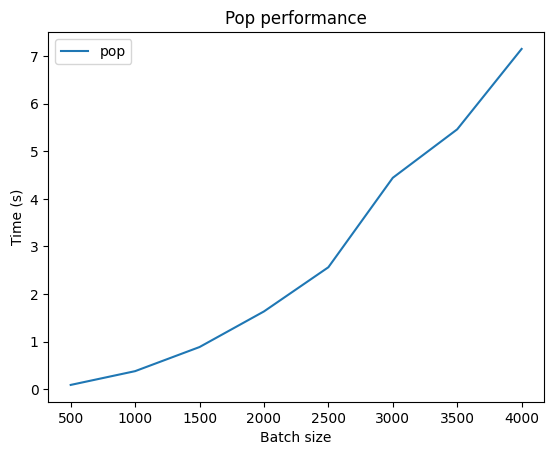
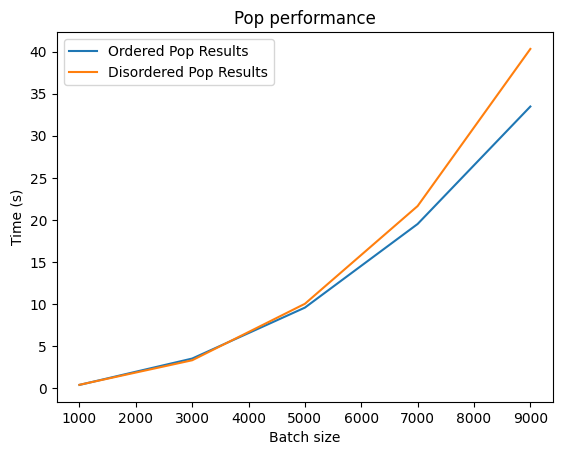
better benchmark, readme explains files

diff --git a/README.md b/README.md
@@ -23,35 +23,43 @@ Retroactive data is a little more complex to show in a figure, better see videos
 
 In this implementation, we merge the implementation of Erik Demaine at https://youtu.be/WqCWghETNDc?si=tRViaFba89L1pA3o and the implementation shown by Mitko Nikov at https://youtu.be/m2yRawZGYXk?feature=shared .
 
-Disclaimer: this was made purely to have fun and isn't complete.
+**Disclaimer**: this was made purely to have fun and isn't complete.
 
-"Queue" is a Fully retroactive data structure that supports the following operations:
-- Insert an element at a given time.
-- Delete an element at a given time.
-- Get the element at a given time.
-- Get the size of the structure at a given time.
-- Get the size of the structure at the current time.
-- Undo a operation at a given time. (if it is possible) WIP
+In file **retroactive_queue.py** there's a class "Queue" that is a Fully retroactive data structure that supports the following operations:
+- Insert an element at a given time. (push)
+- Delete an element at a given time. (pop)
+- Get the queue at given time. (front)
+- Get the size at given time (size)
+- Undo a operation at a given time if it is possible. (undo) **WIP, testing**
+- Print all data inorder (print_in_order)
+
+To make this possible, we use a OST as a base to work, in this case the OST is an augmented RB Tree located in **base_rbt_ost.py** which later is augmented again according to different cases in **modified_ost.py**, but this can work with any tree as long as its got same functions, the three different cases of use are:
+- "Add" Tree: this OST only contains the operation of adding an element at a given index, *stores index and value*.
+- "deleting" Tree: this OST only contains the operation of deleting an element at a given index, only *stores the index* as it exists.
+- "consistency" Tree: this OST contains all the operations of adding and deleting elements, and is used to check and validate consistency of the structure over time, *stores index and prefix* (+1 for adding and -1 for deleting)
+
+### Overview:
 
 ![implementation.](https://github.com/elpolloconmayo/Time-Travel-Queue/blob/main/images/curr_implementation.png)
 
-To make this possible, we use a OST as a base to work, in this case the OST is a RB Tree, but can be any tree, The OST is modified according to it's use:
-- adding, this OST only contains the operation of adding an element at a given index, stores index and value.
-- deleting, this OST only contains the operation of deleting an element at a given index, only stores the index.
-- consistency, this OST contains all the operations of adding and deleting elements, and is used to check the consistency of the structure. (stores index, +1 for adding and -1 for deleting)
+## Benchmarks and how to replicate
 
-## Future Work
-
-- to check consistency we make a fully traversal of the tree, this **CAN'T be optimized by storing the size of the tree in each node** as the check should be _inorder_, due to this, a better approach could be to implement a 4th structure that only point's to bridges (like a simple list that stores indexes), or maybe another structure for the consistency tree, like a skiplist would work.
-- **fix the undo operation** (in tested enviroment looks fine, with random values there's some bug that I couldn't find)
-- benchmark in a better way pop, front and undo operations
-- better OST implementation, this one isn't a mess but could be better, AA tree could be a good choice, Tango Tree would be an astonishing choice.
-
-## some questionable benchmarks
+Benchmarks are made in **benchmark.ipynb** (obviously), for this file to work all you need is have the files of base_rbt_ost.py, modified_ost.py and retroactive_queue.py in same folder as benchmark, the benchmark starts by creating a random data according to the biggest batch we want to test, and just for fun we order it in another list to compare how much affects data order, then by using perf_counter we measure how much time it takes push and pop functions individually to work. It's **relevant** to mention that _the first node is fixed_ at "datetime(2010, 1, 1, 12, 0, 0)" which is in the center of the range of the random data.
 
 ![push.](https://github.com/elpolloconmayo/Time-Travel-Queue/blob/main/images/push.png)
 
 ![pop.](https://github.com/elpolloconmayo/Time-Travel-Queue/blob/main/images/pop.png)
+
+Implementation was made thinking it would be log in both cases, but benchmarks show linear and maybe linear-logarithmic cases, which isn't bad for a retroactive data structure but there's pretty much room for improvement.
+
+As for undo and front functions, there's no benchmark right now.
+
+## Future Work
+
+- to check consistency we make a fully traversal of the tree, **_this CAN'T be optimized by storing the size of the tree in each node_** as the check should be _inorder_, due to this, a better approach could be to implement a 4th structure that only point's to bridges (like a simple list that stores indexes), or maybe another structure for the consistency tree, like a skiplist would work.
+- **fix the undo operation** (in tested enviroment looks fine, with random values there's some bug that I couldn't find)
+- benchmark in a better way pop, front and undo operations
+- better OST implementation, this one isn't bad, but could be better, AA tree could be a good choice.
 
 ## some scribble notes
 
